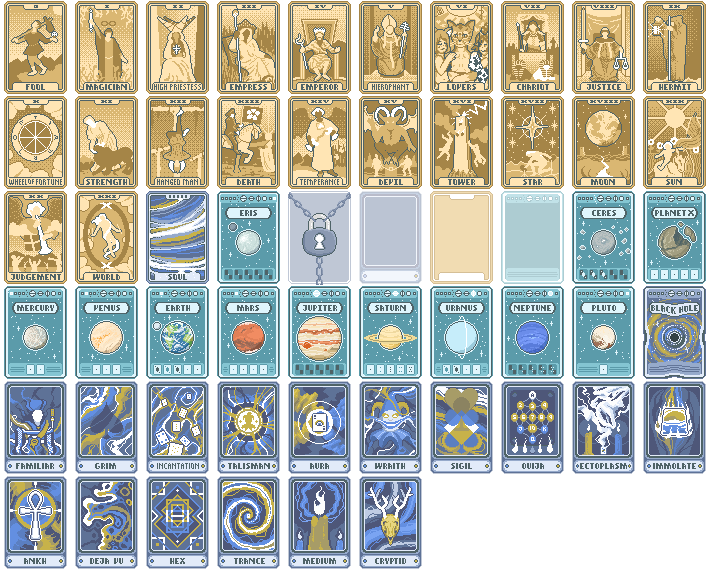
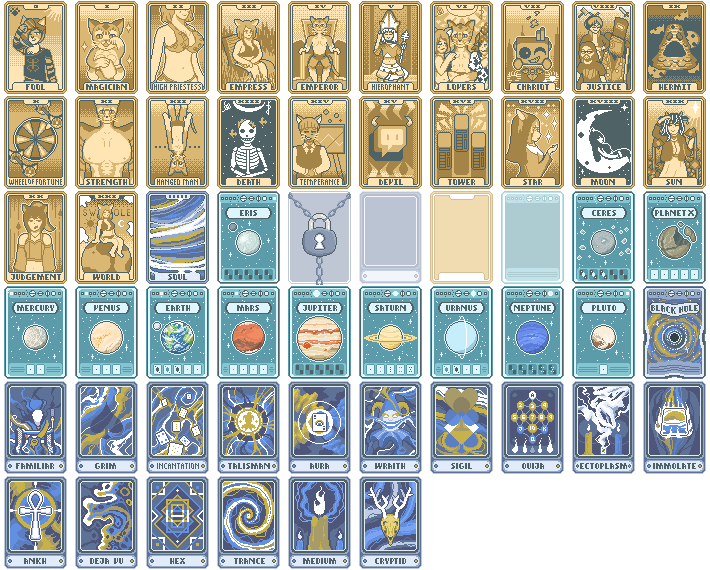
add tarot and fix readme

Changed region(s): [[0.0, 0.1789, 0.9915, 0.4772], [0.0, 0.0, 0.5887, 0.1491], [0.7127, 0.0, 0.9915, 0.1491]]

diff --git a/README.md b/README.md
@@ -16,6 +16,6 @@ Lots of people worked on this project for simplicity's sake I'll divide this up 
 * Witch_Hunter_ and stjimmy1995 for posing the models
 * [AstrowellTV](https://www.twitch.tv/astrowelltv) for the splash screen
 * [Patriversal](https://www.fiverr.com/patriexist) for the tarot cards
-[README.md](README.md)
+
 ### Mod Credits
 * Swolekat (that's me) 
